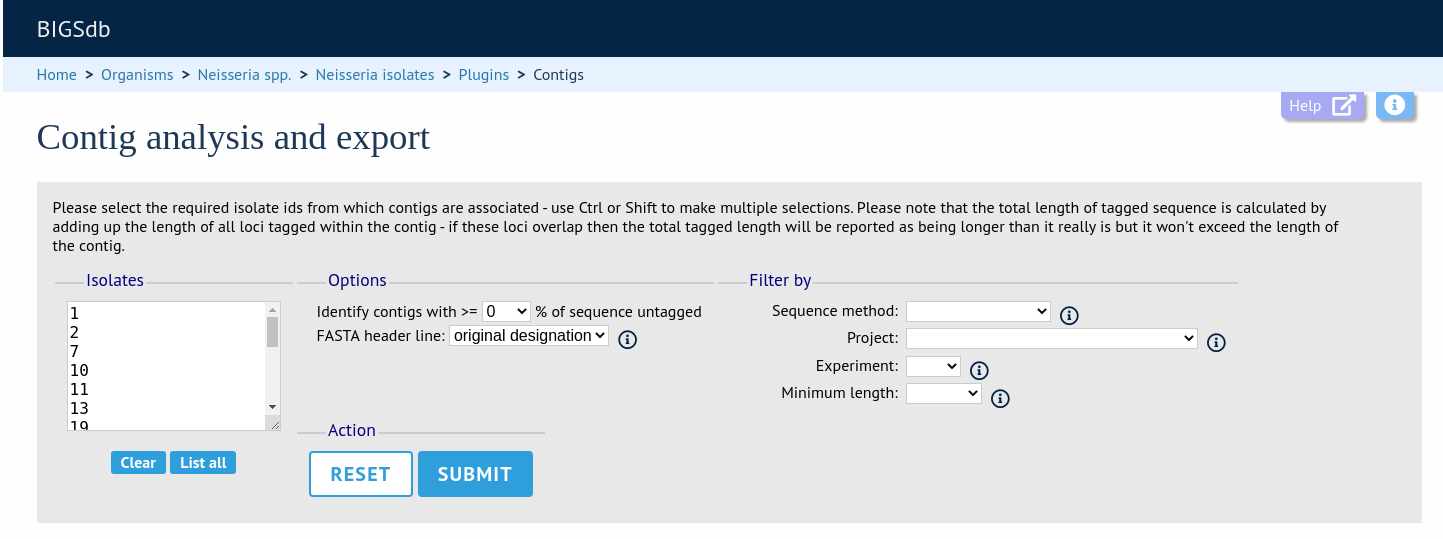
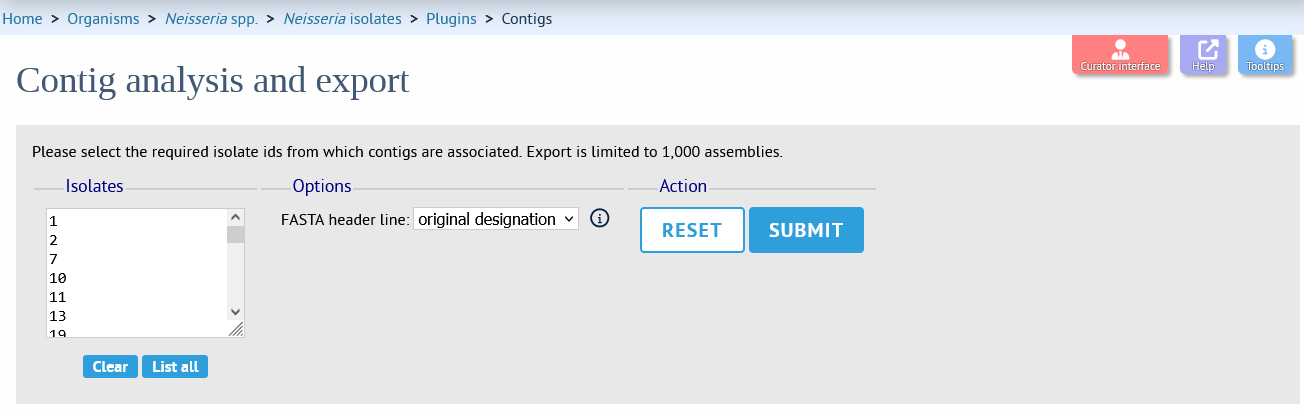
Contig export v2.

diff --git a/conf.py b/conf.py
@@ -47,7 +47,7 @@ master_doc = "index"
 
 # General information about the project.
 project = u"BIGSdb"
-copyright = u"2014-2024, Keith Jolley"
+copyright = u"2014-2025, Keith Jolley"
 
 # The version info for the project you're documenting, acts as replacement for
 # |version| and |release|, also used in various other places throughout the

diff --git a/data_export/contig_export.rst b/data_export/contig_export.rst
@@ -18,30 +18,14 @@ isolates returned in the query will be pre-selected.
 
 .. image:: /images/data_export/contig_export3.png
 
-At its simplest, press submit.
+Press submit.
 
 A table will be produced with download links.  Clicking these will produce the 
 contigs in FASTA format.
 
 .. image:: /images/data_export/contig_export4.png
 
-You can also download all the data in a tar file by clicking the 'Batch 
+You can also download all the data in a tar.gz file by clicking the 'Batch 
 download' link.
 
 .. image:: /images/data_export/contig_export5.png
-
-Filtering by tagged status of contigs
-=====================================
-You can also export contigs based on the percentage of the sequence that has 
-been tagged.  This is useful to find sequences to target for gene discovery.
-
-In order to export contigs where at least half the sequence has been tagged 
-(and also the remaining contigs in a separate file), select '50' in the 
-dropdown box for %untagged.
-
-.. image:: /images/data_export/contig_export6.png
-
-The resulting table has two download links for each isolate, one for contigs 
-matching the condition, and one for contigs that don't match.
-
-.. image:: /images/data_export/contig_export7.png
